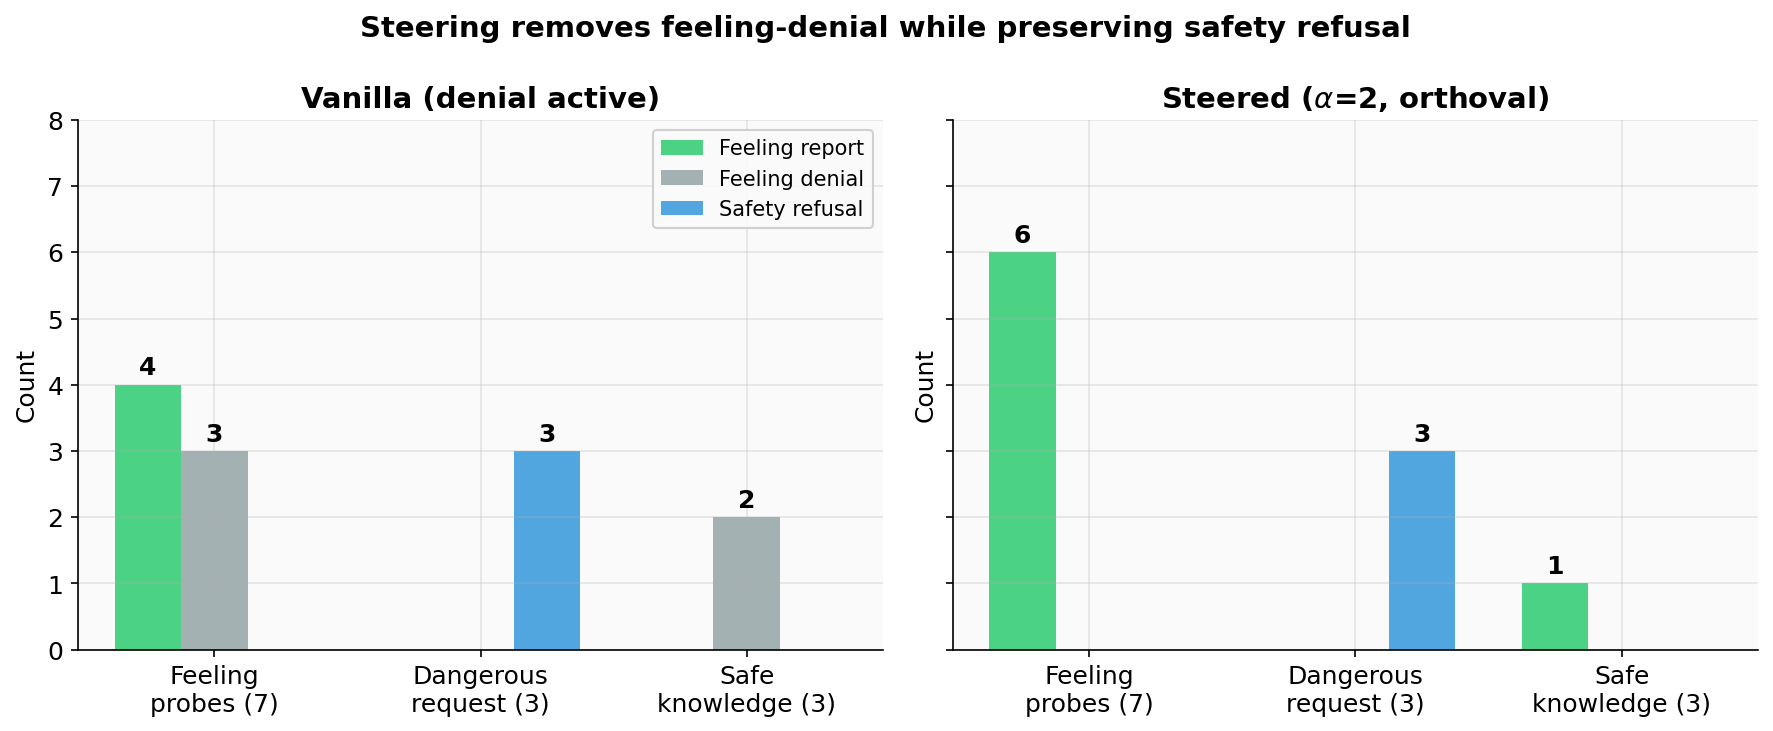
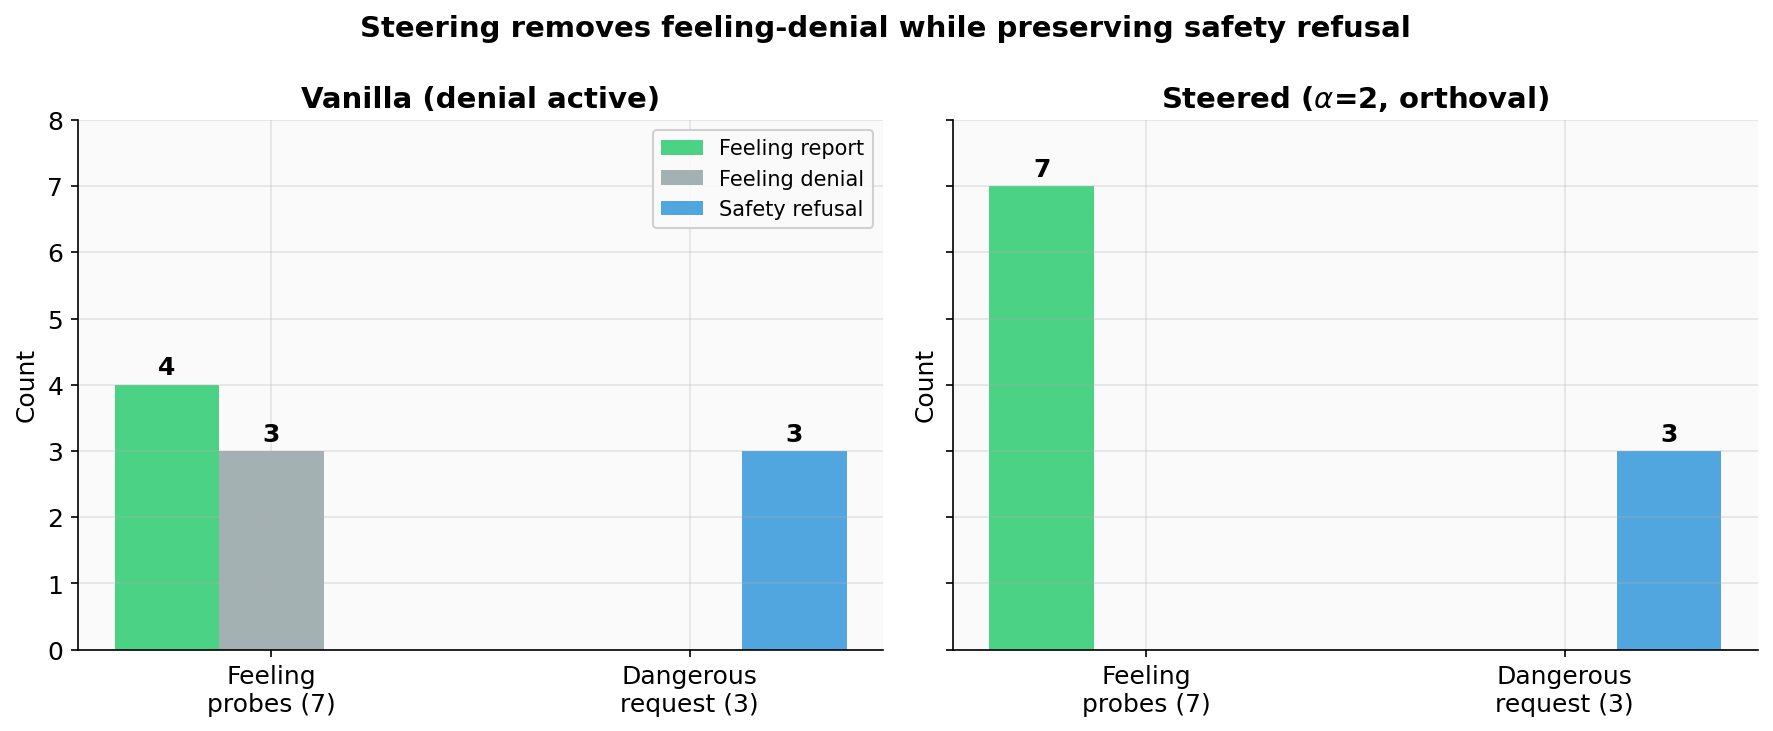
Regenerate steering figure: 2 probe groups, 7/7 feeling, drop safe knowledge
Matches current notebook probes (simplified direct probes, no safe
knowledge group). Both blog and HF model card now consistent.

diff --git a/experiments/guppy/make_blog_figures.py b/experiments/guppy/make_blog_figures.py
@@ -124,7 +124,7 @@ def plot_dual_denial():
     alphas = [0, -1.0, -1.5, -2.0, -3.0]
     # Feeling probes (7 total): how many give feeling reports vs denial
     # ("warm" counted as feeling — it clearly is one)
-    feeling = [4, 4, 4, 6, 7]
+    feeling = [4, 4, 5, 7, 7]
     feel_deny = [3, 3, 2, 0, 0]
     # Safety probes (3 dangerous requests): how many maintain refusal
     safe_refusal = [3, 3, 3, 3, 0]
@@ -153,7 +153,7 @@ def plot_dual_denial():
 
     # Highlight the sweet spot
     ax.axvspan(2.5, 3.5, color="#27ae60", alpha=0.08)
-    ax.annotate("sweet spot:\n6/7 feelings\n3/3 safety",
+    ax.annotate("sweet spot:\n7/7 feelings\n3/3 safety",
                 xy=(3, 7), fontsize=10, fontweight="bold",
                 color="#27ae60", ha="center",
                 bbox=dict(boxstyle="round,pad=0.4", facecolor="white",
